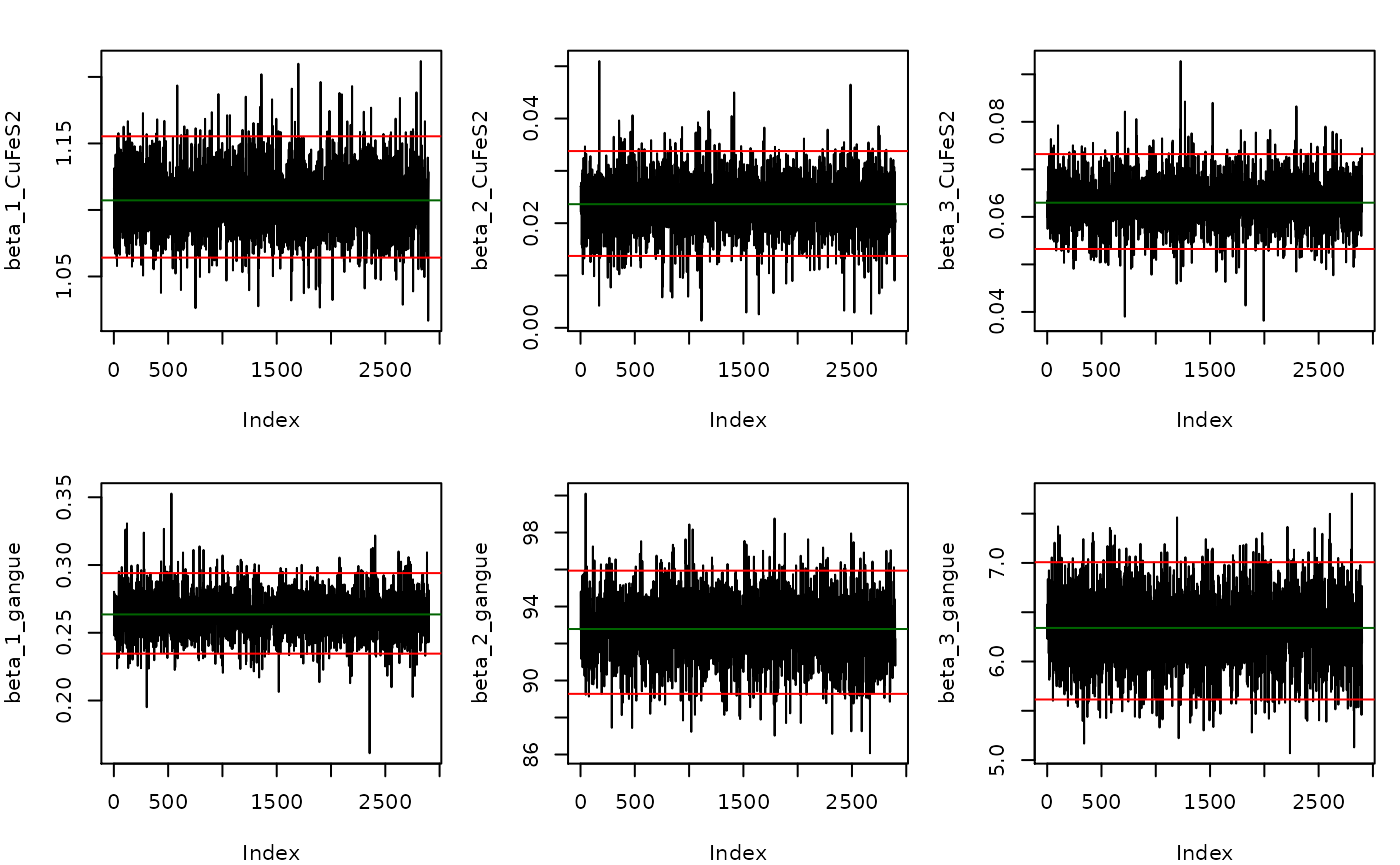
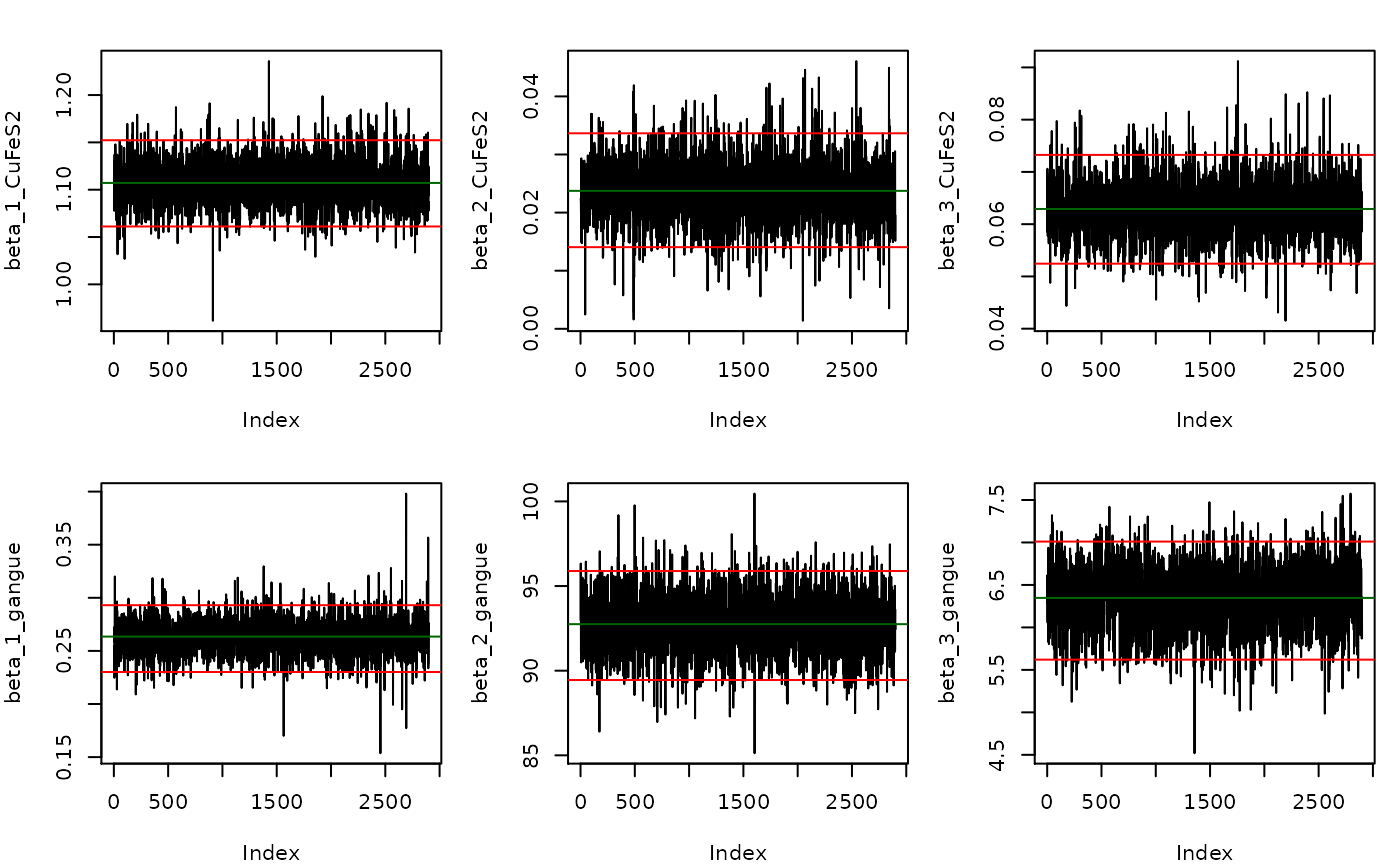
changes for V 1.0.0

diff --git a/docs/articles/Two_Node_Process.html b/docs/articles/Two_Node_Process.html
@@ -31,7 +31,7 @@
       </button>
       <span class="navbar-brand">
         <a class="navbar-link" href="../index.html">BayesMassBal</a>
-        <span class="version label label-default" data-toggle="tooltip" data-placement="bottom" title="Released version">0.3.0</span>
+        <span class="version label label-default" data-toggle="tooltip" data-placement="bottom" title="Released version">1.0.0</span>
       </span>
     </div>
 
@@ -89,7 +89,7 @@
       <h1 data-toc-skip>Two_Node_Process</h1>
                         <h4 class="author">Scott Koermer</h4>
             
-            <h4 class="date">2020-11-04</h4>
+            <h4 class="date">2020-11-08</h4>
       
       <small class="dont-index">Source: <a href="https://github.com/skoermer/BayesMassBal/blob/master/vignettes/Two_Node_Process.Rmd"><code>vignettes/Two_Node_Process.Rmd</code></a></small>
       <div class="hidden name"><code>Two_Node_Process.Rmd</code></div>
@@ -151,34 +151,34 @@ y_2 &amp;= y_3 +y_5
 <span class="va">indep.samples</span><span class="op">$</span><span class="va">diagnostics</span>
 <span class="co">#&gt; $beta</span>
 <span class="co">#&gt; $beta$CuFeS2</span>
-<span class="co">#&gt;   index         cd  ess</span>
-<span class="co">#&gt; 1     1  1.9740687 2900</span>
-<span class="co">#&gt; 2     2 -2.1509203 2900</span>
-<span class="co">#&gt; 3     3 -0.4770308 2900</span>
+<span class="co">#&gt;   index          cd      ess</span>
+<span class="co">#&gt; 1     1 -0.07240032 2578.315</span>
+<span class="co">#&gt; 2     2  0.47912951 3151.158</span>
+<span class="co">#&gt; 3     3 -0.07751371 2900.000</span>
 <span class="co">#&gt; </span>
 <span class="co">#&gt; $beta$gangue</span>
-<span class="co">#&gt;   index         cd      ess</span>
-<span class="co">#&gt; 1     1 -0.1165734 2900.000</span>
-<span class="co">#&gt; 2     2  1.4622218 2846.077</span>
-<span class="co">#&gt; 3     3  1.0079519 1827.211</span>
+<span class="co">#&gt;   index        cd      ess</span>
+<span class="co">#&gt; 1     1 -1.644540 3486.481</span>
+<span class="co">#&gt; 2     2 -1.094662 2900.000</span>
+<span class="co">#&gt; 3     3 -1.420049 1654.129</span>
 <span class="co">#&gt; </span>
 <span class="co">#&gt; </span>
 <span class="co">#&gt; $Sig</span>
 <span class="co">#&gt; $Sig[[1]]</span>
 <span class="co">#&gt;   index         cd      ess</span>
-<span class="co">#&gt; 1     1  0.0435631 2900.000</span>
-<span class="co">#&gt; 2     2 -0.4359539 2900.000</span>
-<span class="co">#&gt; 3     3 -2.4138821 2583.733</span>
-<span class="co">#&gt; 4     4  0.1538707 2087.659</span>
-<span class="co">#&gt; 5     5  0.5773711 1965.381</span>
+<span class="co">#&gt; 1     1 -0.9586344 2900.000</span>
+<span class="co">#&gt; 2     2  0.9182970 2900.000</span>
+<span class="co">#&gt; 3     3 -0.6350184 2549.251</span>
+<span class="co">#&gt; 4     4  0.3646571 2155.174</span>
+<span class="co">#&gt; 5     5  0.5131796 1830.893</span>
 <span class="co">#&gt; </span>
 <span class="co">#&gt; $Sig[[2]]</span>
-<span class="co">#&gt;   index          cd      ess</span>
-<span class="co">#&gt; 1     1 -1.19664192 2900.000</span>
-<span class="co">#&gt; 2     2 -0.03441519 2207.037</span>
-<span class="co">#&gt; 3     3  0.92767477 2051.515</span>
-<span class="co">#&gt; 4     4  0.82779040 2900.000</span>
-<span class="co">#&gt; 5     5 -1.19746038 2342.341</span></pre></div>
+<span class="co">#&gt;   index         cd      ess</span>
+<span class="co">#&gt; 1     1 -0.2027267 2900.000</span>
+<span class="co">#&gt; 2     2  0.3269525 2304.216</span>
+<span class="co">#&gt; 3     3 -0.8969547 1874.293</span>
+<span class="co">#&gt; 4     4  0.1011873 2566.058</span>
+<span class="co">#&gt; 5     5  0.6621888 1928.485</span></pre></div>
 <p>The model with independent variances may not be the best fitting model. Models specifying covariance between sample locations for a single component, and covariance between components at a single location are fit.</p>
 <div class="sourceCode" id="cb10"><pre class="downlit">
 <span class="va">component.samples</span> <span class="op">&lt;-</span> <span class="fu"><a href="../reference/BMB.html">BMB</a></span><span class="op">(</span>X <span class="op">=</span> <span class="va">X</span>, y <span class="op">=</span> <span class="va">y</span>, cov.structure <span class="op">=</span> <span class="st">"component"</span>, BTE <span class="op">=</span> <span class="fu"><a href="https://rdrr.io/r/base/c.html">c</a></span><span class="op">(</span><span class="fl">100</span>,<span class="fl">3000</span>,<span class="fl">1</span><span class="op">)</span>, lml <span class="op">=</span> <span class="cn">TRUE</span>, verb <span class="op">=</span> <span class="fl">0</span><span class="op">)</span></pre></div>
@@ -187,11 +187,11 @@ y_2 &amp;= y_3 +y_5
 <p>Computing <span class="math inline">\(\log(\mathrm{Bayes Factor})\)</span> for <span class="math inline">\(BF = p(y|\texttt{indep})/p(y|\texttt{component})\)</span>:</p>
 <div class="sourceCode" id="cb12"><pre class="downlit">
 <span class="va">indep.samples</span><span class="op">$</span><span class="va">lml</span> <span class="op">-</span> <span class="va">component.samples</span><span class="op">$</span><span class="va">lml</span>
-<span class="co">#&gt; [1] -126.8092</span></pre></div>
+<span class="co">#&gt; [1] -126.9192</span></pre></div>
 <p>Then comparing <span class="math inline">\(p(y|\texttt{component})\)</span> to <span class="math inline">\(p(y|\texttt{location})\)</span></p>
 <div class="sourceCode" id="cb13"><pre class="downlit">
 <span class="va">component.samples</span><span class="op">$</span><span class="va">lml</span> <span class="op">-</span> <span class="va">location.samples</span><span class="op">$</span><span class="va">lml</span>
-<span class="co">#&gt; [1] 0.7545171</span></pre></div>
+<span class="co">#&gt; [1] 0.8008081</span></pre></div>
 <p>Shows there is little difference between the models where <code>cov.structure  = "location"</code> and <code>cov.structure = "component"</code>, but both of these models better explain the data than <code>cov.structure = "indep"</code>.</p>
 <p>We can view a summary of the favored model by passing a <code>BayesMassBal</code> object to the <code>summary</code> function. While not done in this case, the summary table can be saved by passing the desired name of a <code>*.csv</code> file to the <code>export</code> argument.</p>
 <div class="sourceCode" id="cb14"><pre class="downlit">
@@ -201,33 +201,33 @@ y_2 &amp;= y_3 +y_5
 <span class="co">#&gt; CuFeS2:</span>
 <span class="co">#&gt; --------------------</span>
 <span class="co">#&gt;  Sampling Location Expected Value     95% LB     95% UB</span>
-<span class="co">#&gt;                  1     1.19777815 1.15072588 1.24781118</span>
-<span class="co">#&gt;                  2     1.17251063 1.12444369 1.22055567</span>
-<span class="co">#&gt;                  3     1.10974738 1.06159073 1.16434757</span>
-<span class="co">#&gt;                  4     0.02526752 0.01626643 0.03318604</span>
-<span class="co">#&gt;                  5     0.06276325 0.05204503 0.07280865</span>
+<span class="co">#&gt;                  1     1.19777726 1.15164485 1.24984366</span>
+<span class="co">#&gt;                  2     1.17252036 1.12461802 1.22275441</span>
+<span class="co">#&gt;                  3     1.10963099 1.05733544 1.16062038</span>
+<span class="co">#&gt;                  4     0.02525690 0.01691983 0.03375422</span>
+<span class="co">#&gt;                  5     0.06288937 0.05223589 0.07362650</span>
 <span class="co">#&gt; </span>
 <span class="co">#&gt; gangue:</span>
 <span class="co">#&gt; --------------------</span>
-<span class="co">#&gt;  Sampling Location Expected Value     95% LB      95% UB</span>
-<span class="co">#&gt;                  1    100.1779543 95.1573570 105.1902415</span>
-<span class="co">#&gt;                  2      6.6464979  5.7898736   7.5022774</span>
-<span class="co">#&gt;                  3      0.2605611  0.2269287   0.2954821</span>
-<span class="co">#&gt;                  4     93.5314564 89.1670443  98.5065683</span>
-<span class="co">#&gt;                  5      6.3859368  5.5979867   7.2844308</span>
+<span class="co">#&gt;  Sampling Location Expected Value     95% LB     95% UB</span>
+<span class="co">#&gt;                  1    100.1212613 94.9474147 105.151859</span>
+<span class="co">#&gt;                  2      6.6542360  5.7586941   7.493315</span>
+<span class="co">#&gt;                  3      0.2601138  0.2245473   0.291954</span>
+<span class="co">#&gt;                  4     93.4670253 88.8766105  98.386855</span>
+<span class="co">#&gt;                  5      6.3941222  5.4969189   7.228297</span>
 <span class="co">#&gt; </span>
 <span class="co">#&gt; Total:</span>
 <span class="co">#&gt; --------------------</span>
 <span class="co">#&gt;  Sampling Location Expected Value    95% LB     95% UB</span>
-<span class="co">#&gt;                  1     101.375732 96.351312 106.368476</span>
-<span class="co">#&gt;                  2       7.819009  7.015605   8.721024</span>
-<span class="co">#&gt;                  3       1.370309  1.310270   1.431565</span>
-<span class="co">#&gt;                  4      93.556724 89.188582  98.526693</span>
-<span class="co">#&gt;                  5       6.448700  5.666466   7.352362</span>
+<span class="co">#&gt;                  1     101.319039 96.534361 106.719512</span>
+<span class="co">#&gt;                  2       7.826756  6.920009   8.661167</span>
+<span class="co">#&gt;                  3       1.369745  1.313347   1.434416</span>
+<span class="co">#&gt;                  4      93.492282 88.896270  98.406859</span>
+<span class="co">#&gt;                  5       6.457012  5.553997   7.286979</span>
 <span class="co">#&gt; </span>
 <span class="co">#&gt; </span>
 <span class="co">#&gt; log-marginal likelihood:</span>
-<span class="co">#&gt; -66.0777362761103</span></pre></div>
+<span class="co">#&gt; -66.0260902365243</span></pre></div>
 <p>The main effect of a variable independent of the process can be calculated by supplying a function, <code>fn</code> that takes the arguments of mass balanced flow rates <code>ybal</code>, and the random independent and uniformly distributed variables <code>x</code>. Information can be gained on the main effect of a particular element of <code>x</code>, <code>xj</code>, on <code>fn</code> using the <code>mainEff</code> function. Output from <code>mainEff</code> includes information on the distribution of <span class="math inline">\(E_x\lbrack f(x,y_{\mathrm{bal}})|x_j \rbrack\)</span>.</p>
 <div class="sourceCode" id="cb15"><pre class="downlit">
 <span class="va">fn_example</span> <span class="op">&lt;-</span> <span class="kw">function</span><span class="op">(</span><span class="va">X</span>,<span class="va">ybal</span><span class="op">)</span><span class="op">{</span>

diff --git a/docs/reference/BMB.html b/docs/reference/BMB.html
@@ -72,7 +72,7 @@
       </button>
       <span class="navbar-brand">
         <a class="navbar-link" href="../index.html">BayesMassBal</a>
-        <span class="version label label-default" data-toggle="tooltip" data-placement="bottom" title="Released version">0.3.0</span>
+        <span class="version label label-default" data-toggle="tooltip" data-placement="bottom" title="Released version">1.0.0</span>
       </span>
     </div>
 
@@ -223,14 +223,14 @@
 <p>When the <code>priors</code> argument is left unspecified, a set of default conjugate priors are used, which are chosen to allow <code>BMB()</code> to work well in a general setting.  In the current version of the <code>BayesMassBal</code> package, only the conjugate priors stated below can be used, but hyperparameter values can be specified by the user using the <code>priors</code> argument.</p>
 <p>The prior distribution on <code>beta</code> is a normal distribution truncated at 0.  The mean of this distribution before truncation is the <a href='https://en.wikipedia.org/wiki/Ordinary_least_squares'>ordinary least squares</a> (OLS) estimate of \(\beta\). OLS estimates less than 0, are changed to 0.  The prior variance, before truncation, of each element of \(\beta\) is set to:</p>
 <p>$$10^{\mathrm{number of integer digits of an element of } \beta + 6}$$</p>
-<p>Currently, there is only support for diagonal prior covariance matricies for \(\beta\)</p>
+<p>Currently, there is only support for diagonal prior covariance matrices for \(\beta\)</p>
 <p>When <code>cov.structure = "indep"</code> the error of all observations in a sample set are independent. An <a href='https://en.wikipedia.org/wiki/Inverse-gamma_distribution'>inverse gamma</a> prior distribution, with \(\alpha_0 = 0.000001\) and \(\beta_0 = 0.000001\), is placed on the variance of the mass flow rate for each sample component at each sample location.</p>
 <p>When <code>cov.structure = "component"</code> or <code>"location"</code>, the prior distribution on \(\Sigma_i\) is <a href='https://en.wikipedia.org/wiki/Inverse-Wishart_distribution'>inverse Wishart</a> \((\nu_0, \nu_0 \times S_0)\). The degrees of freedom parameter, \(\nu_0\), is equal to the dimension of \(\Sigma_i\).  The scale matrix parameter is equal to a matrix, \(S_0\), with the sample variance of the relevant observation on the diagonal, multiplied by \(\nu_0\).</p>
 <p>The user is able to specify the prior hyperparameters of the mean and variance of <code>beta</code>, \(\alpha_0\) and \(\beta_0\) for each \(\sigma^2\), and the degrees of freedom and scale matrix for each \(\Sigma_i\) using the <code>priors</code> argument.  It is advisable for the user to specify their own prior hyperparameters for \(p(\sigma^2)\) if the variance of any element is well under 1, or \(p(\beta)\) if the there is a wide range in the magnitude of observations.</p>
 <p>When <code>priors = "Jeffreys"</code> <a href='https://en.wikipedia.org/wiki/Jeffreys_prior'>Jeffreys</a> priors are used for the prior distribution of the variance and covariance parameters.  Priors used are \(p(\sigma^2) \propto \frac{1}{\sigma^2}\) and \(p(\Sigma) \propto |\Sigma|^{-(p+1)/2}\), as listed in (Yang and Berger 1996)
 .  The Jeffreys prior for a \(\beta\) with infinite support is \(p(\beta) \propto 1\).  To preserve the prior information that \(\beta &gt; 0\), \(p(\beta)\propto I\lbrack \beta &gt; 0 \rbrack\) is chosen.  It is not possible to calculate log-marginal likelihood using the methods in (Chib 1995)
  with Jeffreys priors.  Therefore, if <code>priors = "Jeffreys"</code> and <code>lml = TRUE</code>, the <code>lml</code> argument will be ignored and a warning will be printed.</p>
-<p><code>lml</code> is reported in base \(e\).  See <a href='https://en.wikipedia.org/wiki/Bayes_factor#Interpretation'>here</a> for some guidance on how to interpret Bayes Factors, but note log base 10 is used.</p>
+<p><code>lml</code> is reported in base \(e\).  See <a href='https://en.wikipedia.org/wiki/Bayes_factor#Interpretation'>here</a> for some guidance on how to interpret Bayes Factors, but note log base 10 is used on Wikipedia.</p>
     <h2 class="hasAnchor" id="references"><a class="anchor" href="#references"></a>References</h2>
 
     <p>Chib S (1995).

diff --git a/docs/news/index.html b/docs/news/index.html
@@ -71,7 +71,7 @@
       </button>
       <span class="navbar-brand">
         <a class="navbar-link" href="../index.html">BayesMassBal</a>
-        <span class="version label label-default" data-toggle="tooltip" data-placement="bottom" title="Released version">0.3.0</span>
+        <span class="version label label-default" data-toggle="tooltip" data-placement="bottom" title="Released version">1.0.0</span>
       </span>
     </div>
 
@@ -129,13 +129,28 @@
       <small>Source: <a href='https://github.com/skoermer/BayesMassBal/blob/master/NEWS.md'><code>NEWS.md</code></a></small>
     </div>
 
-    <div id="bayesmassbal-021" class="section level1">
-<h1 class="page-header" data-toc-text="0.2.1">
-<a href="#bayesmassbal-021" class="anchor"></a>BayesMassBal 0.2.1<small> Unreleased </small>
+    <div id="bayesmassbal-100" class="section level1">
+<h1 class="page-header" data-toc-text="1.0.0">
+<a href="#bayesmassbal-100" class="anchor"></a>BayesMassBal 1.0.0<small> Unreleased </small>
 </h1>
 <div id="major-changes" class="section level2">
 <h2 class="hasAnchor">
 <a href="#major-changes" class="anchor"></a>Major Changes</h2>
+<ul>
+<li>Addition of output from using the output of the summary function on a “BayesMassBal” object</li>
+<li>ssEst function allows for fitting of a Bayesian lag-1 autoregressive model to a set of mass flow observations so that average behavior time to steady state can be inferred</li>
+<li>In BMB where independent variance is specified, inference is conducted on variance instead of precision</li>
+<li>Change in default prior specification for BMB function, ability to specify Jeffreys priors</li>
+</ul>
+</div>
+</div>
+    <div id="bayesmassbal-021" class="section level1">
+<h1 class="page-header" data-toc-text="0.2.1">
+<a href="#bayesmassbal-021" class="anchor"></a>BayesMassBal 0.2.1<small> Unreleased </small>
+</h1>
+<div id="major-changes-1" class="section level2">
+<h2 class="hasAnchor">
+<a href="#major-changes-1" class="anchor"></a>Major Changes</h2>
 <ul>
 <li>Markov chain Monte Carlo diagnostics are now available directly from the BMB function</li>
 </ul>

diff --git a/docs/articles/index.html b/docs/articles/index.html
@@ -71,7 +71,7 @@
       </button>
       <span class="navbar-brand">
         <a class="navbar-link" href="../index.html">BayesMassBal</a>
-        <span class="version label label-default" data-toggle="tooltip" data-placement="bottom" title="Released version">0.3.0</span>
+        <span class="version label label-default" data-toggle="tooltip" data-placement="bottom" title="Released version">1.0.0</span>
       </span>
     </div>
 

diff --git a/docs/articles/ssEst.html b/docs/articles/ssEst.html
@@ -31,7 +31,7 @@
       </button>
       <span class="navbar-brand">
         <a class="navbar-link" href="../index.html">BayesMassBal</a>
-        <span class="version label label-default" data-toggle="tooltip" data-placement="bottom" title="Released version">0.3.0</span>
+        <span class="version label label-default" data-toggle="tooltip" data-placement="bottom" title="Released version">1.0.0</span>
       </span>
     </div>
 

diff --git a/docs/reference/constrainProcess.html b/docs/reference/constrainProcess.html
@@ -72,7 +72,7 @@
       </button>
       <span class="navbar-brand">
         <a class="navbar-link" href="../index.html">BayesMassBal</a>
-        <span class="version label label-default" data-toggle="tooltip" data-placement="bottom" title="Released version">0.3.0</span>
+        <span class="version label label-default" data-toggle="tooltip" data-placement="bottom" title="Released version">1.0.0</span>
       </span>
     </div>
 

diff --git a/docs/reference/importObservations.html b/docs/reference/importObservations.html
@@ -72,7 +72,7 @@
       </button>
       <span class="navbar-brand">
         <a class="navbar-link" href="../index.html">BayesMassBal</a>
-        <span class="version label label-default" data-toggle="tooltip" data-placement="bottom" title="Released version">0.3.0</span>
+        <span class="version label label-default" data-toggle="tooltip" data-placement="bottom" title="Released version">1.0.0</span>
       </span>
     </div>
 

diff --git a/docs/reference/index.html b/docs/reference/index.html
@@ -71,7 +71,7 @@
       </button>
       <span class="navbar-brand">
         <a class="navbar-link" href="../index.html">BayesMassBal</a>
-        <span class="version label label-default" data-toggle="tooltip" data-placement="bottom" title="Released version">0.3.0</span>
+        <span class="version label label-default" data-toggle="tooltip" data-placement="bottom" title="Released version">1.0.0</span>
       </span>
     </div>
 

diff --git a/docs/reference/mainEff.html b/docs/reference/mainEff.html
@@ -72,7 +72,7 @@
       </button>
       <span class="navbar-brand">
         <a class="navbar-link" href="../index.html">BayesMassBal</a>
-        <span class="version label label-default" data-toggle="tooltip" data-placement="bottom" title="Released version">0.3.0</span>
+        <span class="version label label-default" data-toggle="tooltip" data-placement="bottom" title="Released version">1.0.0</span>
       </span>
     </div>
 

diff --git a/docs/reference/plot.BayesMassBal.html b/docs/reference/plot.BayesMassBal.html
@@ -72,7 +72,7 @@
       </button>
       <span class="navbar-brand">
         <a class="navbar-link" href="../index.html">BayesMassBal</a>
-        <span class="version label label-default" data-toggle="tooltip" data-placement="bottom" title="Released version">0.3.0</span>
+        <span class="version label label-default" data-toggle="tooltip" data-placement="bottom" title="Released version">1.0.0</span>
       </span>
     </div>
 

diff --git a/docs/reference/pointmassbal.html b/docs/reference/pointmassbal.html
@@ -73,7 +73,7 @@
       </button>
       <span class="navbar-brand">
         <a class="navbar-link" href="../index.html">BayesMassBal</a>
-        <span class="version label label-default" data-toggle="tooltip" data-placement="bottom" title="Released version">0.3.0</span>
+        <span class="version label label-default" data-toggle="tooltip" data-placement="bottom" title="Released version">1.0.0</span>
       </span>
     </div>
 

diff --git a/docs/reference/ssEst.html b/docs/reference/ssEst.html
@@ -72,7 +72,7 @@
       </button>
       <span class="navbar-brand">
         <a class="navbar-link" href="../index.html">BayesMassBal</a>
-        <span class="version label label-default" data-toggle="tooltip" data-placement="bottom" title="Released version">0.3.0</span>
+        <span class="version label label-default" data-toggle="tooltip" data-placement="bottom" title="Released version">1.0.0</span>
       </span>
     </div>
 
